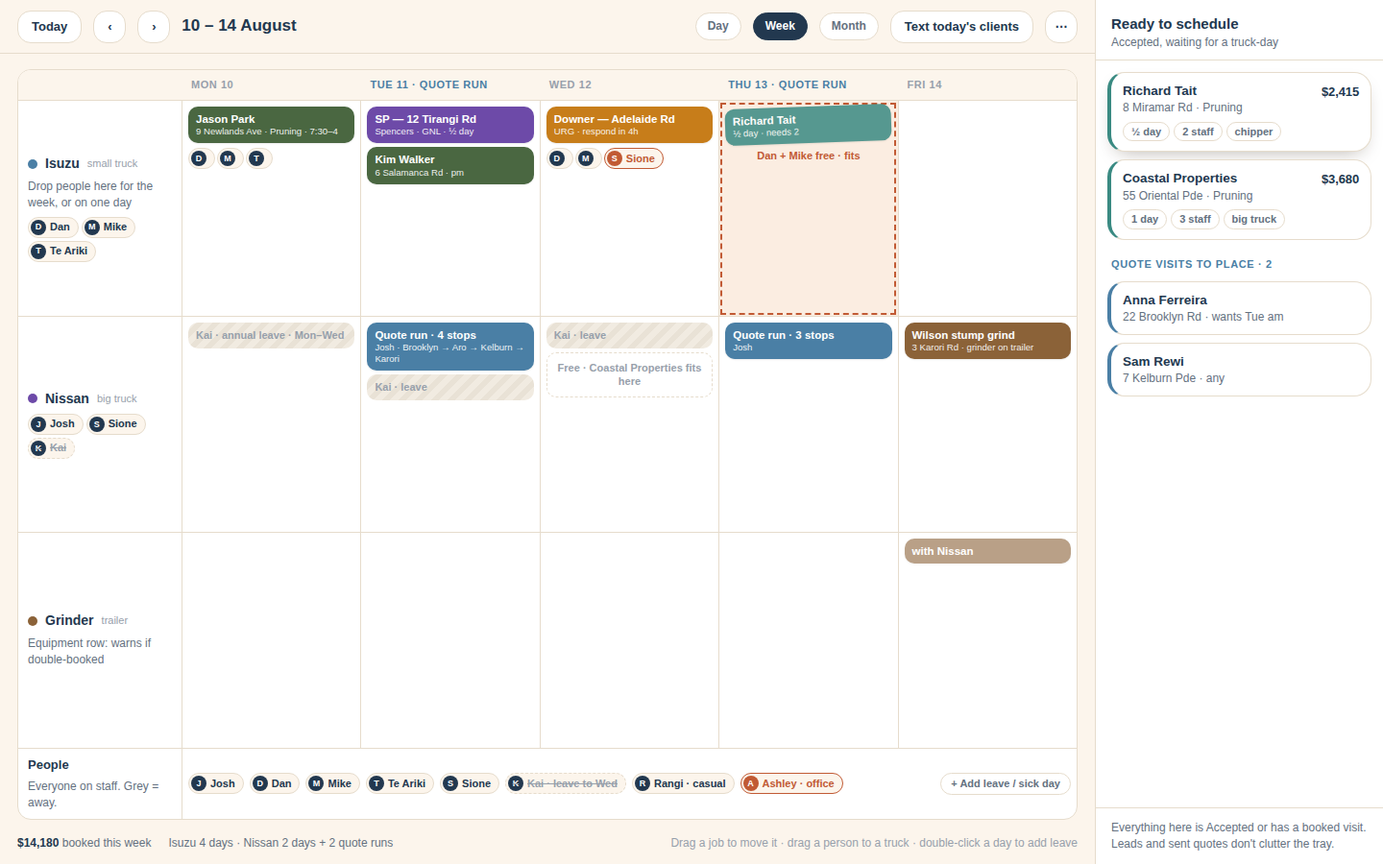
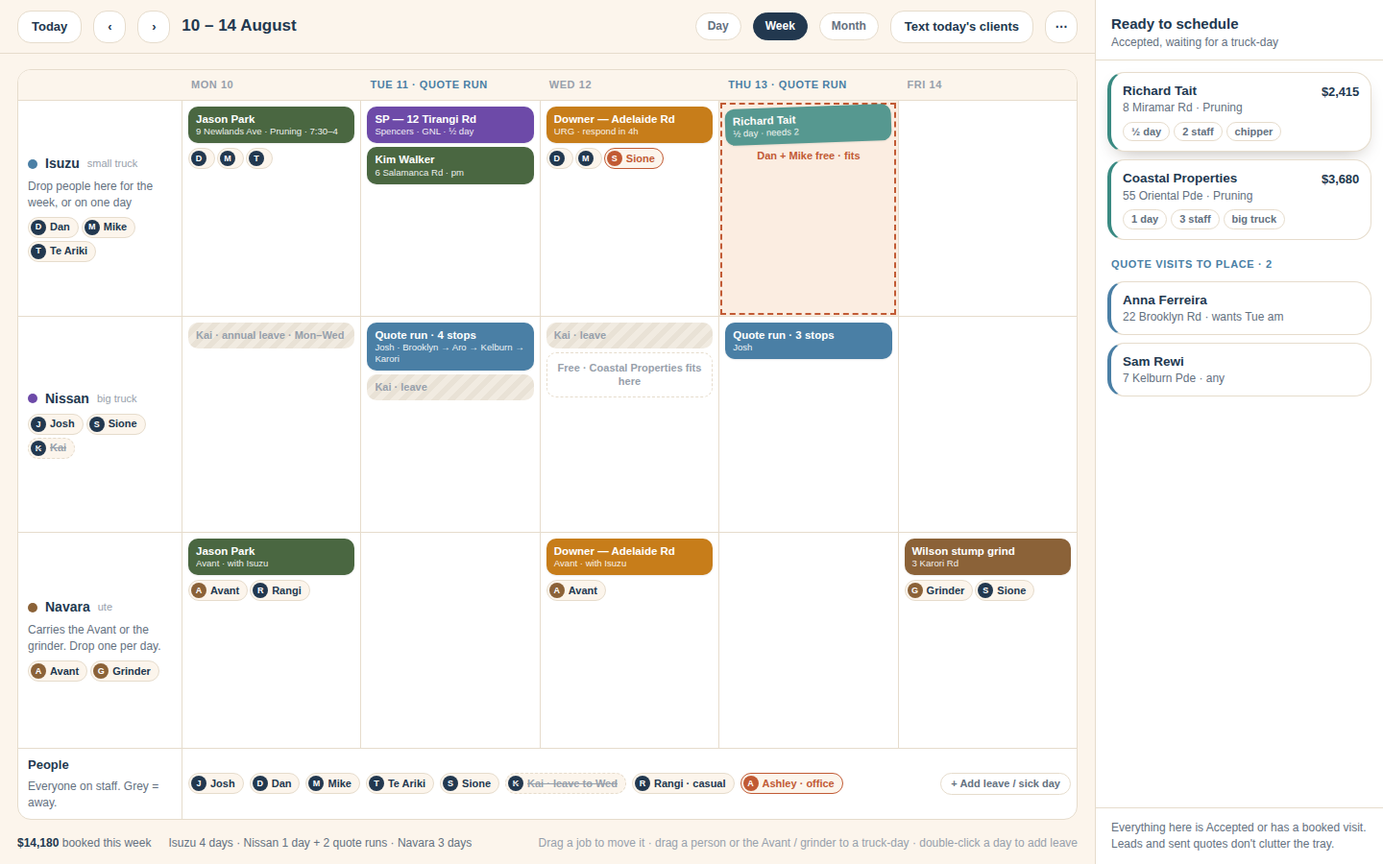
Notify Josh and office@ on every lead, acceptance, decline and comment; Navara scheduler row
Recipients move to supabase/functions/_shared/notify.ts (NOTIFY_EMAILS
secret overrides). inbound-lead, book-quote and notify-office all use it;
notify-office no longer limits the owner copy to residential jobs.
Scheduler mockups gain a Navara row carrying the Avant or the grinder.

Claude-Session: https://claude.ai/code/session_01JFxbZHgkHtkpRGcMA3SJdT

diff --git a/docs/redesign/TreeCo-Workflow-Redesign.html b/docs/redesign/TreeCo-Workflow-Redesign.html
@@ -954,7 +954,7 @@ font-family:ui-rounded,'SF Pro Rounded',-apple-system,BlinkMacSystemFont,'Segoe 
   </ul>
 
   <h3>The scheduler: trucks are rows, people are chips, leave is grey</h3>
-  <p>Trucks (and the grinder trailer) are the rows. Every staff member is a chip you drop on a truck for the week or for one day. Leave and sick days grey out the person, and the scheduler warns when a job needs more people than the truck has that day. The tray on the right only ever holds Accepted work and quote visits waiting for a run, so it stays short.</p>
+  <p>The Isuzu, the Nissan and the Navara are the rows. The Navara carries either the Avant or the stump grinder, so those two are chips you drop on the Navara for the day, and the scheduler warns if both are wanted at once. Every staff member is a chip you drop on a truck for the week or for one day. Leave and sick days grey out the person, and the scheduler warns when a job needs more people than the truck has that day. The tray on the right only ever holds Accepted work and quote visits waiting for a run, so it stays short.</p>
   <figure class="mock"><div class="vp" data-w="1440" data-h="900"><div class="mk" style="width:1440px;height:900px;display:grid;grid-template-columns:1fr 300px">
   <!-- Shared Scheduler: trucks are the rows, people are chips you drop on a truck-day, leave greys out. -->
   <div style="display:flex;flex-direction:column;overflow:hidden">
@@ -982,10 +982,10 @@ font-family:ui-rounded,'SF Pro Rounded',-apple-system,BlinkMacSystemFont,'Segoe 
         <div class="gc"><div class="blk" style="background:var(--s-visit)">Quote run · 4 stops<small>Josh · Brooklyn → Aro → Kelburn → Karori</small></div><div class="off" style="margin-top:4px">Kai · leave</div></div>
         <div class="gc"><div class="off">Kai · leave</div><div style="border:1.5px dashed var(--line);border-radius:10px;padding:8px;text-align:center;font-size:11px;color:var(--ink-3);font-weight:600;margin-top:4px">Free · Coastal Properties fits here</div></div>
         <div class="gc"><div class="blk" style="background:var(--s-visit)">Quote run · 3 stops<small>Josh</small></div></div>
-        <div class="gc"><div class="blk" style="background:var(--s-stump)">Wilson stump grind<small>3 Karori Rd · grinder on trailer</small></div></div>
+        <div class="gc"></div>
 
-        <div class="gl"><div class="row" style="gap:8px"><span style="width:10px;height:10px;border-radius:50%;background:#8B6238"></span><b style="font-size:14px">Grinder</b><span class="faint" style="font-size:11px">trailer</span></div><div class="note">Equipment row: warns if double-booked</div></div>
-        <div class="gc"></div><div class="gc"></div><div class="gc"></div><div class="gc"></div><div class="gc"><div class="blk" style="background:var(--s-stump);opacity:.6">with Nissan</div></div>
+        <div class="gl"><div class="row" style="gap:8px"><span style="width:10px;height:10px;border-radius:50%;background:#8B6238"></span><b style="font-size:14px">Navara</b><span class="faint" style="font-size:11px">ute</span></div><div class="note">Carries the Avant or the grinder. Drop one per day.</div><div class="row" style="gap:3px;flex-wrap:wrap"><span class="who"><i style="background:#8B6238">A</i>Avant</span><span class="who"><i style="background:#8B6238">G</i>Grinder</span></div></div>
+        <div class="gc"><div class="blk" style="background:var(--s-sched)">Jason Park<small>Avant · with Isuzu</small></div><div class="row" style="gap:2px;margin-top:5px"><span class="who"><i style="background:#8B6238">A</i>Avant</span><span class="who"><i>R</i>Rangi</span></div></div><div class="gc"></div><div class="gc"><div class="blk" style="background:#C77D1A">Downer — Adelaide Rd<small>Avant · with Isuzu</small></div><div class="row" style="gap:2px;margin-top:5px"><span class="who"><i style="background:#8B6238">A</i>Avant</span></div></div><div class="gc"></div><div class="gc"><div class="blk" style="background:var(--s-stump)">Wilson stump grind<small>3 Karori Rd</small></div><div class="row" style="gap:2px;margin-top:5px"><span class="who"><i style="background:#8B6238">G</i>Grinder</span><span class="who"><i>S</i>Sione</span></div></div>
 
         <div class="gl" style="border-bottom:0"><b>People</b><div class="note">Everyone on staff. Grey = away.</div></div>
         <div class="gc" style="border-bottom:0;grid-column:2/7;display:flex;gap:6px;flex-wrap:wrap;align-items:center;min-height:48px">
@@ -994,7 +994,7 @@ font-family:ui-rounded,'SF Pro Rounded',-apple-system,BlinkMacSystemFont,'Segoe 
         </div>
       </div>
     </div>
-    <div class="row" style="padding:0 18px 14px;gap:18px;font-size:12px;color:var(--ink-2)"><span><b class="tn" style="color:var(--ink)">$14,180</b> booked this week</span><span>Isuzu 4 days · Nissan 2 days + 2 quote runs</span><span class="grow"></span><span class="faint">Drag a job to move it · drag a person to a truck · double-click a day to add leave</span></div>
+    <div class="row" style="padding:0 18px 14px;gap:18px;font-size:12px;color:var(--ink-2)"><span><b class="tn" style="color:var(--ink)">$14,180</b> booked this week</span><span>Isuzu 4 days · Nissan 1 day + 2 quote runs · Navara 3 days</span><span class="grow"></span><span class="faint">Drag a job to move it · drag a person or the Avant / grinder to a truck-day · double-click a day to add leave</span></div>
   </div>
 
   <!-- unscheduled tray: only Accepted work and booked quote visits -->
@@ -1019,7 +1019,7 @@ font-family:ui-rounded,'SF Pro Rounded',-apple-system,BlinkMacSystemFont,'Segoe 
     <span class="chip">Day</span><span class="chip on">Week</span><span class="btn" style="width:34px;padding:0">⋯</span>
   </div>
   <div style="padding:14px 16px 0;flex:1;min-height:0">
-    <div class="grid" style="grid-template-columns:120px repeat(5,1fr);height:100%;grid-template-rows:auto 1fr 1fr auto">
+    <div class="grid" style="grid-template-columns:120px repeat(5,1fr);height:100%;grid-template-rows:auto 1fr 1fr 1fr auto">
       <div class="gh"></div><div class="gh">Mon</div><div class="gh" style="color:var(--s-visit)">Tue</div><div class="gh">Wed</div><div class="gh" style="color:var(--s-visit)">Thu</div><div class="gh">Fri</div>
       <div class="gl"><b>Isuzu</b><div class="row" style="gap:2px;flex-wrap:wrap"><span class="who"><i>D</i></span><span class="who"><i>M</i></span><span class="who"><i>T</i></span></div></div>
       <div class="gc"><div class="blk" style="background:var(--s-sched)">Jason Park<small>Newlands</small></div></div>
@@ -1032,7 +1032,9 @@ font-family:ui-rounded,'SF Pro Rounded',-apple-system,BlinkMacSystemFont,'Segoe 
       <div class="gc"><div class="blk" style="background:var(--s-visit)">Quote run · 4</div><div class="off" style="margin-top:4px">Kai · leave</div></div>
       <div class="gc"><div class="off">Kai · leave</div></div>
       <div class="gc"><div class="blk" style="background:var(--s-visit)">Quote run · 3</div></div>
-      <div class="gc"><div class="blk" style="background:var(--s-stump)">Wilson stump</div></div>
+      <div class="gc"></div>
+      <div class="gl"><b>Navara</b><div class="row" style="gap:2px;flex-wrap:wrap"><span class="who"><i style="background:#8B6238">A</i></span><span class="who"><i style="background:#8B6238">G</i></span></div></div>
+      <div class="gc"><div class="blk" style="background:var(--s-sched)">Jason Park<small>Avant</small></div></div><div class="gc"></div><div class="gc"><div class="blk" style="background:#C77D1A">Downer<small>Avant</small></div></div><div class="gc"></div><div class="gc"><div class="blk" style="background:var(--s-stump)">Wilson stump<small>Grinder</small></div></div>
       <div class="gl" style="border-bottom:0"><b>People</b></div>
       <div class="gc" style="border-bottom:0;grid-column:2/7;display:flex;gap:6px;flex-wrap:wrap;align-items:center;min-height:44px"><span class="who"><i>J</i>Josh</span><span class="who"><i>D</i>Dan</span><span class="who"><i>M</i>Mike</span><span class="who"><i>T</i>Te Ariki</span><span class="who"><i>S</i>Sione</span><span class="who away"><i>K</i>Kai</span><span class="who"><i>R</i>Rangi</span></div>
     </div>
@@ -1052,12 +1054,12 @@ font-family:ui-rounded,'SF Pro Rounded',-apple-system,BlinkMacSystemFont,'Segoe 
 </div><figcaption>iPad landscape: same grid, tray becomes a bottom sheet, touch-and-hold lifts a card.</figcaption></figure>
 
   <h3>The two emails you and Ashley both get</h3>
-  <p>One event, one line, one button. Sent to every address listed in Settings → Notifications (so adding Ashley, or a future estimator, is a settings change, not a code change).</p>
+  <p>One event, one line, one button. Sent to Josh and the office inbox (Ashley reads office@urbantreeservices.net), with the list editable without a redeploy so a future estimator is a settings change.</p>
   <figure class="mock" style="max-width:640px"><div class="vp" data-w="640" data-h="760"><div class="mk" style="width:640px;height:760px;background:#EFE8DC;padding:26px">
   <!-- The two notification emails Josh and Ashley both get. One event, one line, one button. -->
   <div style="display:flex;flex-direction:column;gap:18px">
     <div style="background:#fff;border:1px solid var(--line);border-radius:16px;overflow:hidden">
-      <div style="padding:12px 20px;border-bottom:1px solid var(--line);font-size:12px;color:var(--ink-2)"><b style="color:var(--ink)">TreeCo</b> &lt;office@urbantreeservices.net&gt; → josh@…, ashley@…<div style="font-size:14px;font-weight:700;color:var(--ink);margin-top:4px">Accepted · Richard Tait · 8 Miramar Rd · $2,415</div></div>
+      <div style="padding:12px 20px;border-bottom:1px solid var(--line);font-size:12px;color:var(--ink-2)"><b style="color:var(--ink)">TreeCo</b> &lt;office@urbantreeservices.net&gt; → josh@…, office@…<div style="font-size:14px;font-weight:700;color:var(--ink);margin-top:4px">Accepted · Richard Tait · 8 Miramar Rd · $2,415</div></div>
       <div style="padding:22px 24px;display:flex;flex-direction:column;gap:14px">
         <div class="row" style="gap:12px"><span style="width:40px;height:40px;border-radius:50%;background:var(--s-accepted);color:#fff;display:inline-flex;align-items:center;justify-content:center;font-weight:800">✓</span><div><div style="font-size:18px;font-weight:800">Richard Tait accepted the quote</div><div class="muted">Tue 8:12pm · signed "R. Tait" · all items incl. optional stump grind</div></div></div>
         <div style="display:grid;grid-template-columns:1fr auto;gap:6px 16px;padding:12px 14px;background:var(--cream);border-radius:12px;font-size:13px"><span class="muted">Job</span><b>8 Miramar Rd, Miramar · Pruning</b><span class="muted">Total</span><b class="tn">$2,415 incl GST</b><span class="muted">Crew pack</span><b>½ day · 2 staff · chipper</b><span class="muted">Phone</span><b>027 111 222</b></div>
@@ -1066,7 +1068,7 @@ font-family:ui-rounded,'SF Pro Rounded',-apple-system,BlinkMacSystemFont,'Segoe 
       </div>
     </div>
     <div style="background:#fff;border:1px solid var(--line);border-radius:16px;overflow:hidden">
-      <div style="padding:12px 20px;border-bottom:1px solid var(--line);font-size:12px;color:var(--ink-2)"><b style="color:var(--ink)">TreeCo</b> → josh@…, ashley@…<div style="font-size:14px;font-weight:700;color:var(--ink);margin-top:4px">New lead · Anna Ferreira · 22 Brooklyn Rd · Pruning</div></div>
+      <div style="padding:12px 20px;border-bottom:1px solid var(--line);font-size:12px;color:var(--ink-2)"><b style="color:var(--ink)">TreeCo</b> → josh@…, office@…<div style="font-size:14px;font-weight:700;color:var(--ink);margin-top:4px">New lead · Anna Ferreira · 22 Brooklyn Rd · Pruning</div></div>
       <div style="padding:22px 24px;display:flex;flex-direction:column;gap:14px">
         <div class="row" style="gap:12px"><span style="width:40px;height:40px;border-radius:50%;background:var(--s-lead);color:#fff;display:inline-flex;align-items:center;justify-content:center;font-weight:800">AF</span><div><div style="font-size:18px;font-weight:800">New lead from the website form</div><div class="muted">Prefers Tue morning · 2 photos attached</div></div></div>
         <div style="padding:12px 14px;background:var(--cream);border-radius:12px;font-size:13px;line-height:1.5">"Two large trees overhanging the deck, one is dropping branches. Keen to get them tidied before summer."</div>
@@ -1131,7 +1133,7 @@ font-family:ui-rounded,'SF Pro Rounded',-apple-system,BlinkMacSystemFont,'Segoe 
   </ol>
   <h3>Quick wins that need no design decision</h3>
   <ul>
-    <li>Email both of you on every lead and acceptance (one-line change in each function once I have Ashley's address).</li>
+    <li>Email both of you on every lead and acceptance: done in code (shared recipient list in <span class="k">supabase/functions/_shared/notify.ts</span>), awaiting a function deploy.</li>
     <li>Link Sent Quotes from the Jobs page.</li>
     <li>Show the quote's price and first line on the job row and in the drawer header.</li>
     <li>Delete the ~600 lines of dead kanban and dashboard-table code.</li>
@@ -1140,8 +1142,8 @@ font-family:ui-rounded,'SF Pro Rounded',-apple-system,BlinkMacSystemFont,'Segoe 
   <h2 id="decide">Decisions I need from you</h2>
   <ol>
     <li><b>Home screen:</b> decided, Direction A.</li>
-    <li><b>Ashley's email address</b> for notifications, and whether <span class="k">office@</span> should still receive copies.</li>
-    <li><b>Truck names and the grinder as a row:</b> Isuzu, Nissan, Grinder trailer. Anything else that gets double-booked (chipper, Avant)?</li>
+    <li><b>Notifications:</b> decided, Josh plus office@ (Ashley) on every lead, acceptance, decline and question.</li>
+    <li><b>Scheduler rows:</b> decided, Isuzu, Nissan, Navara (carrying the Avant or the grinder).</li>
     <li><b>Status labels:</b> keep the original wording, or the shorter ones in the stepper ("Visit booked", "Done, to invoice").</li>
     <li><b>Quote runs:</b> keep Tuesday / Thursday as the default rows on the scheduler.</li>
   </ol>

diff --git a/docs/redesign/mockups/Scheduler.html b/docs/redesign/mockups/Scheduler.html
@@ -25,10 +25,10 @@
         <div class="gc"><div class="blk" style="background:var(--s-visit)">Quote run · 4 stops<small>Josh · Brooklyn → Aro → Kelburn → Karori</small></div><div class="off" style="margin-top:4px">Kai · leave</div></div>
         <div class="gc"><div class="off">Kai · leave</div><div style="border:1.5px dashed var(--line);border-radius:10px;padding:8px;text-align:center;font-size:11px;color:var(--ink-3);font-weight:600;margin-top:4px">Free · Coastal Properties fits here</div></div>
         <div class="gc"><div class="blk" style="background:var(--s-visit)">Quote run · 3 stops<small>Josh</small></div></div>
-        <div class="gc"><div class="blk" style="background:var(--s-stump)">Wilson stump grind<small>3 Karori Rd · grinder on trailer</small></div></div>
+        <div class="gc"></div>
 
-        <div class="gl"><div class="row" style="gap:8px"><span style="width:10px;height:10px;border-radius:50%;background:#8B6238"></span><b style="font-size:14px">Grinder</b><span class="faint" style="font-size:11px">trailer</span></div><div class="note">Equipment row: warns if double-booked</div></div>
-        <div class="gc"></div><div class="gc"></div><div class="gc"></div><div class="gc"></div><div class="gc"><div class="blk" style="background:var(--s-stump);opacity:.6">with Nissan</div></div>
+        <div class="gl"><div class="row" style="gap:8px"><span style="width:10px;height:10px;border-radius:50%;background:#8B6238"></span><b style="font-size:14px">Navara</b><span class="faint" style="font-size:11px">ute</span></div><div class="note">Carries the Avant or the grinder. Drop one per day.</div><div class="row" style="gap:3px;flex-wrap:wrap"><span class="who"><i style="background:#8B6238">A</i>Avant</span><span class="who"><i style="background:#8B6238">G</i>Grinder</span></div></div>
+        <div class="gc"><div class="blk" style="background:var(--s-sched)">Jason Park<small>Avant · with Isuzu</small></div><div class="row" style="gap:2px;margin-top:5px"><span class="who"><i style="background:#8B6238">A</i>Avant</span><span class="who"><i>R</i>Rangi</span></div></div><div class="gc"></div><div class="gc"><div class="blk" style="background:#C77D1A">Downer — Adelaide Rd<small>Avant · with Isuzu</small></div><div class="row" style="gap:2px;margin-top:5px"><span class="who"><i style="background:#8B6238">A</i>Avant</span></div></div><div class="gc"></div><div class="gc"><div class="blk" style="background:var(--s-stump)">Wilson stump grind<small>3 Karori Rd</small></div><div class="row" style="gap:2px;margin-top:5px"><span class="who"><i style="background:#8B6238">G</i>Grinder</span><span class="who"><i>S</i>Sione</span></div></div>
 
         <div class="gl" style="border-bottom:0"><b>People</b><div class="note">Everyone on staff. Grey = away.</div></div>
         <div class="gc" style="border-bottom:0;grid-column:2/7;display:flex;gap:6px;flex-wrap:wrap;align-items:center;min-height:48px">
@@ -37,7 +37,7 @@
         </div>
       </div>
     </div>
-    <div class="row" style="padding:0 18px 14px;gap:18px;font-size:12px;color:var(--ink-2)"><span><b class="tn" style="color:var(--ink)">$14,180</b> booked this week</span><span>Isuzu 4 days · Nissan 2 days + 2 quote runs</span><span class="grow"></span><span class="faint">Drag a job to move it · drag a person to a truck · double-click a day to add leave</span></div>
+    <div class="row" style="padding:0 18px 14px;gap:18px;font-size:12px;color:var(--ink-2)"><span><b class="tn" style="color:var(--ink)">$14,180</b> booked this week</span><span>Isuzu 4 days · Nissan 1 day + 2 quote runs · Navara 3 days</span><span class="grow"></span><span class="faint">Drag a job to move it · drag a person or the Avant / grinder to a truck-day · double-click a day to add leave</span></div>
   </div>
 
   <!-- unscheduled tray: only Accepted work and booked quote visits -->

diff --git a/docs/redesign/mockups/Email.html b/docs/redesign/mockups/Email.html
@@ -2,7 +2,7 @@
   <!-- The two notification emails Josh and Ashley both get. One event, one line, one button. -->
   <div style="display:flex;flex-direction:column;gap:18px">
     <div style="background:#fff;border:1px solid var(--line);border-radius:16px;overflow:hidden">
-      <div style="padding:12px 20px;border-bottom:1px solid var(--line);font-size:12px;color:var(--ink-2)"><b style="color:var(--ink)">TreeCo</b> &lt;office@urbantreeservices.net&gt; → josh@…, ashley@…<div style="font-size:14px;font-weight:700;color:var(--ink);margin-top:4px">Accepted · Richard Tait · 8 Miramar Rd · $2,415</div></div>
+      <div style="padding:12px 20px;border-bottom:1px solid var(--line);font-size:12px;color:var(--ink-2)"><b style="color:var(--ink)">TreeCo</b> &lt;office@urbantreeservices.net&gt; → josh@…, office@…<div style="font-size:14px;font-weight:700;color:var(--ink);margin-top:4px">Accepted · Richard Tait · 8 Miramar Rd · $2,415</div></div>
       <div style="padding:22px 24px;display:flex;flex-direction:column;gap:14px">
         <div class="row" style="gap:12px"><span style="width:40px;height:40px;border-radius:50%;background:var(--s-accepted);color:#fff;display:inline-flex;align-items:center;justify-content:center;font-weight:800">✓</span><div><div style="font-size:18px;font-weight:800">Richard Tait accepted the quote</div><div class="muted">Tue 8:12pm · signed "R. Tait" · all items incl. optional stump grind</div></div></div>
         <div style="display:grid;grid-template-columns:1fr auto;gap:6px 16px;padding:12px 14px;background:var(--cream);border-radius:12px;font-size:13px"><span class="muted">Job</span><b>8 Miramar Rd, Miramar · Pruning</b><span class="muted">Total</span><b class="tn">$2,415 incl GST</b><span class="muted">Crew pack</span><b>½ day · 2 staff · chipper</b><span class="muted">Phone</span><b>027 111 222</b></div>
@@ -11,7 +11,7 @@
       </div>
     </div>
     <div style="background:#fff;border:1px solid var(--line);border-radius:16px;overflow:hidden">
-      <div style="padding:12px 20px;border-bottom:1px solid var(--line);font-size:12px;color:var(--ink-2)"><b style="color:var(--ink)">TreeCo</b> → josh@…, ashley@…<div style="font-size:14px;font-weight:700;color:var(--ink);margin-top:4px">New lead · Anna Ferreira · 22 Brooklyn Rd · Pruning</div></div>
+      <div style="padding:12px 20px;border-bottom:1px solid var(--line);font-size:12px;color:var(--ink-2)"><b style="color:var(--ink)">TreeCo</b> → josh@…, office@…<div style="font-size:14px;font-weight:700;color:var(--ink);margin-top:4px">New lead · Anna Ferreira · 22 Brooklyn Rd · Pruning</div></div>
       <div style="padding:22px 24px;display:flex;flex-direction:column;gap:14px">
         <div class="row" style="gap:12px"><span style="width:40px;height:40px;border-radius:50%;background:var(--s-lead);color:#fff;display:inline-flex;align-items:center;justify-content:center;font-weight:800">AF</span><div><div style="font-size:18px;font-weight:800">New lead from the website form</div><div class="muted">Prefers Tue morning · 2 photos attached</div></div></div>
         <div style="padding:12px 14px;background:var(--cream);border-radius:12px;font-size:13px;line-height:1.5">"Two large trees overhanging the deck, one is dropping branches. Keen to get them tidied before summer."</div>

diff --git a/docs/redesign/mockups/SchedulerIpad.html b/docs/redesign/mockups/SchedulerIpad.html
@@ -6,7 +6,7 @@
     <span class="chip">Day</span><span class="chip on">Week</span><span class="btn" style="width:34px;padding:0">⋯</span>
   </div>
   <div style="padding:14px 16px 0;flex:1;min-height:0">
-    <div class="grid" style="grid-template-columns:120px repeat(5,1fr);height:100%;grid-template-rows:auto 1fr 1fr auto">
+    <div class="grid" style="grid-template-columns:120px repeat(5,1fr);height:100%;grid-template-rows:auto 1fr 1fr 1fr auto">
       <div class="gh"></div><div class="gh">Mon</div><div class="gh" style="color:var(--s-visit)">Tue</div><div class="gh">Wed</div><div class="gh" style="color:var(--s-visit)">Thu</div><div class="gh">Fri</div>
       <div class="gl"><b>Isuzu</b><div class="row" style="gap:2px;flex-wrap:wrap"><span class="who"><i>D</i></span><span class="who"><i>M</i></span><span class="who"><i>T</i></span></div></div>
       <div class="gc"><div class="blk" style="background:var(--s-sched)">Jason Park<small>Newlands</small></div></div>
@@ -19,7 +19,9 @@
       <div class="gc"><div class="blk" style="background:var(--s-visit)">Quote run · 4</div><div class="off" style="margin-top:4px">Kai · leave</div></div>
       <div class="gc"><div class="off">Kai · leave</div></div>
       <div class="gc"><div class="blk" style="background:var(--s-visit)">Quote run · 3</div></div>
-      <div class="gc"><div class="blk" style="background:var(--s-stump)">Wilson stump</div></div>
+      <div class="gc"></div>
+      <div class="gl"><b>Navara</b><div class="row" style="gap:2px;flex-wrap:wrap"><span class="who"><i style="background:#8B6238">A</i></span><span class="who"><i style="background:#8B6238">G</i></span></div></div>
+      <div class="gc"><div class="blk" style="background:var(--s-sched)">Jason Park<small>Avant</small></div></div><div class="gc"></div><div class="gc"><div class="blk" style="background:#C77D1A">Downer<small>Avant</small></div></div><div class="gc"></div><div class="gc"><div class="blk" style="background:var(--s-stump)">Wilson stump<small>Grinder</small></div></div>
       <div class="gl" style="border-bottom:0"><b>People</b></div>
       <div class="gc" style="border-bottom:0;grid-column:2/7;display:flex;gap:6px;flex-wrap:wrap;align-items:center;min-height:44px"><span class="who"><i>J</i>Josh</span><span class="who"><i>D</i>Dan</span><span class="who"><i>M</i>Mike</span><span class="who"><i>T</i>Te Ariki</span><span class="who"><i>S</i>Sione</span><span class="who away"><i>K</i>Kai</span><span class="who"><i>R</i>Rangi</span></div>
     </div>

diff --git a/supabase/functions/notify-office/index.ts b/supabase/functions/notify-office/index.ts
@@ -1,15 +1,13 @@
-// Emails the office when a client accepts/declines/comments on a quote, and —
-// for residential jobs — also emails the owner (josh@urbantreeservices.net).
-// Every accept/comment also logs a job_alert so it surfaces on Ashley's Actions
-// dashboard. Called from QuoteView + QuoteClientComments (public, anon key header).
+// Emails Josh and the office (Ashley) whenever a client accepts, declines or
+// comments on a quote — every job, residential or portal. Recipients come from
+// _shared/notify.ts (NOTIFY_EMAILS secret overrides). Every accept/comment also
+// logs a job_alert so it surfaces on Ashley's Actions dashboard. Called from QuoteView + QuoteClientComments (public, anon key header).
 //
 // POST body: { quote_id, action: 'accepted' | 'declined' | 'comment', reason?: string }
 // Required secrets: RESEND_API_KEY, APP_URL (optional)
 
-const OWNER_EMAIL  = 'josh@urbantreeservices.net'
-const OFFICE_EMAIL = 'office@urbantreeservices.net'
-
 import { createClient } from 'npm:@supabase/supabase-js@2'
+import { NOTIFY_RECIPIENTS, NOTIFY_FROM } from '../_shared/notify.ts'
 
 const CORS = {
   'Access-Control-Allow-Origin':  '*',
@@ -96,9 +94,8 @@ Deno.serve(async (req) => {
       ? `💬 New comment on Quote #${quoteRef} — ${client?.name ?? 'Client'}`
       : `❌ Quote #${quoteRef} declined — ${client?.name ?? 'Client'}`
 
-    // Residential comments/acceptances also go to the owner.
-    const recipients = [OFFICE_EMAIL]
-    if (isResidential && (isComment || isAccept)) recipients.push(OWNER_EMAIL)
+    // Everyone on the notification list gets every accept, decline and comment.
+    const recipients = NOTIFY_RECIPIENTS
 
     const headerBg    = isAccept ? '#2F5233' : isComment ? '#4A6DA8' : '#7B2D26'
     const headerLabel = isAccept ? '✅ Quote Accepted' : isComment ? '💬 New Comment' : '❌ Quote Declined'
@@ -149,7 +146,7 @@ Deno.serve(async (req) => {
       method: 'POST',
       headers: { Authorization: `Bearer ${resendKey}`, 'Content-Type': 'application/json' },
       body: JSON.stringify({
-        from:    'TreeCo <office@urbantreeservices.net>',
+        from:    NOTIFY_FROM,
         to:      recipients,
         subject,
         html,

diff --git a/supabase/functions/book-quote/index.ts b/supabase/functions/book-quote/index.ts
@@ -8,6 +8,7 @@
 // Required secrets: SUPABASE_URL, SUPABASE_SERVICE_ROLE_KEY, RESEND_API_KEY (optional)
 
 import { createClient } from 'npm:@supabase/supabase-js@2'
+import { NOTIFY_RECIPIENTS, NOTIFY_FROM } from '../_shared/notify.ts'
 
 const CORS = {
   'Access-Control-Allow-Origin':  '*',
@@ -112,7 +113,7 @@ Deno.serve(async (req: Request) => {
       fetch('https://api.resend.com/emails', {
         method: 'POST',
         headers: { Authorization: `Bearer ${resendKey}`, 'Content-Type': 'application/json' },
-        body: JSON.stringify({ from: 'TreeCo <noreply@urbantreeservices.net>', to: 'josh@urbantreeservices.net', subject: `New enquiry: ${name}${preferred ? ` — ${preferred}` : ''}`, html }),
+        body: JSON.stringify({ from: NOTIFY_FROM, to: NOTIFY_RECIPIENTS, subject: `New enquiry: ${name}${preferred ? ` — ${preferred}` : ''}`, html }),
       }).catch(() => {})
     }
 

diff --git a/supabase/functions/_shared/notify.ts b/supabase/functions/_shared/notify.ts
@@ -1,0 +1,15 @@
+// Internal notification recipients — one list, used by every function that
+// emails the office about a lead, an acceptance, a decline or a client comment.
+//
+// Override without a redeploy by setting the NOTIFY_EMAILS secret to a
+// comma-separated list. Default: Josh and the office inbox (Ashley).
+
+const DEFAULT_RECIPIENTS = ['josh@urbantreeservices.net', 'office@urbantreeservices.net']
+
+export const NOTIFY_RECIPIENTS: string[] = (() => {
+  const raw = Deno.env.get('NOTIFY_EMAILS') ?? ''
+  const list = raw.split(',').map(s => s.trim()).filter(Boolean)
+  return list.length ? list : DEFAULT_RECIPIENTS
+})()
+
+export const NOTIFY_FROM = 'TreeCo <office@urbantreeservices.net>'

diff --git a/supabase/functions/inbound-lead/index.ts b/supabase/functions/inbound-lead/index.ts
@@ -11,6 +11,7 @@
 // Optional secrets: RESEND_API_KEY, APP_URL
 
 import { createClient } from 'npm:@supabase/supabase-js@2'
+import { NOTIFY_RECIPIENTS, NOTIFY_FROM } from '../_shared/notify.ts'
 
 const CORS = {
   'Access-Control-Allow-Origin':  '*',
@@ -193,8 +194,8 @@ Deno.serve(async (req) => {
           method: 'POST',
           headers: { Authorization: `Bearer ${resendKey}`, 'Content-Type': 'application/json' },
           body: JSON.stringify({
-            from:    'TreeCo <office@urbantreeservices.net>',
-            to:      'office@urbantreeservices.net',
+            from:    NOTIFY_FROM,
+            to:      NOTIFY_RECIPIENTS,
             subject,
             html,
           }),

diff --git a/docs/redesign/TreeCo-Workflow-Redesign.md b/docs/redesign/TreeCo-Workflow-Redesign.md
@@ -73,9 +73,9 @@ On open, Josh sees Quotes and Quote runs only. A Full app button at the bottom o
 
 Job record: price, stepper, quote description, photos, activity beside it. Under "…": versions, copy to new quote, preview as client, client details, enquiry and site notes, work order and job pack, text the client, put on hold, mark declined. One quote per job with automatic versions after send. Copy to new quote creates a new job number linked to the source. Old jobs are recallable from the client page.
 
-Scheduler: trucks and the grinder trailer are rows; every staff member is a chip dropped on a truck for the week or a day; leave and sick days grey the person out; the tray holds only Accepted work and quote visits awaiting a run; dropping shows "Dan + Mike free, fits" before you let go.
+Scheduler: the Isuzu, the Nissan and the Navara are rows (the Navara carries the Avant or the stump grinder, dropped on it per day, with a warning if both are wanted); every staff member is a chip dropped on a truck for the week or a day; leave and sick days grey the person out; the tray holds only Accepted work and quote visits awaiting a run; dropping shows "Dan + Mike free, fits" before you let go.
 
-Emails: one event, one line, one button, sent to every address in Settings → Notifications. Instant for new lead, accepted, declined, client question. In-app only for opened, followed up, crew finished.
+Emails: one event, one line, one button, sent to Josh and office@ (Ashley); the list lives in `supabase/functions/_shared/notify.ts` and can be overridden with the `NOTIFY_EMAILS` secret. Instant for new lead, accepted, declined, client question. In-app only for opened, followed up, crew finished.
 
 ## Feature specs
 
@@ -115,7 +115,7 @@ Quick wins needing no design decision: email both Josh and Ashley on every lead 
 ## Decisions needed
 
 1. Home screen: decided, Direction A.
-2. Ashley's email address for notifications, and whether office@ still receives copies.
-3. Truck names and the grinder as a row; anything else that gets double-booked (chipper, Avant).
+2. Notifications: decided, Josh plus office@ (Ashley) on every lead, acceptance, decline and question. Implemented, awaiting deploy.
+3. Scheduler rows: decided, Isuzu, Nissan, Navara (carrying the Avant or the grinder).
 4. Status labels: original wording or the shorter stepper labels.
 5. Keep Tuesday / Thursday as the default quote-run rows.
